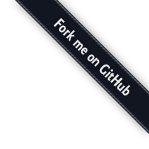
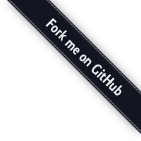
Prevent overlapping of navbar and github ribbon

Changed region(s): [[0.0567, 0.0, 1.0, 0.9645]]

diff --git a/app/assets/stylesheets/main.scss b/app/assets/stylesheets/main.scss
@@ -8,7 +8,6 @@ body {
 $teaser_width: 5308px;
 $teaser_height: 2636px;
 $wanted_teaser_height_md: 1000px;
-$wanted_teaser_height_sm: 200px;
 
 $is-xs: "(max-width: #{$screen-xs-max})";
 $is-min-sm: "(min-width: #{$screen-sm-min})";
@@ -118,6 +117,9 @@ $is-lg: "(min-width: #{$screen-lg-min})";
 }
 .navbar {
   margin-bottom: 0;
+}
+.navbar-container {
+  padding-right: 140px;
 }
 
 .section {
